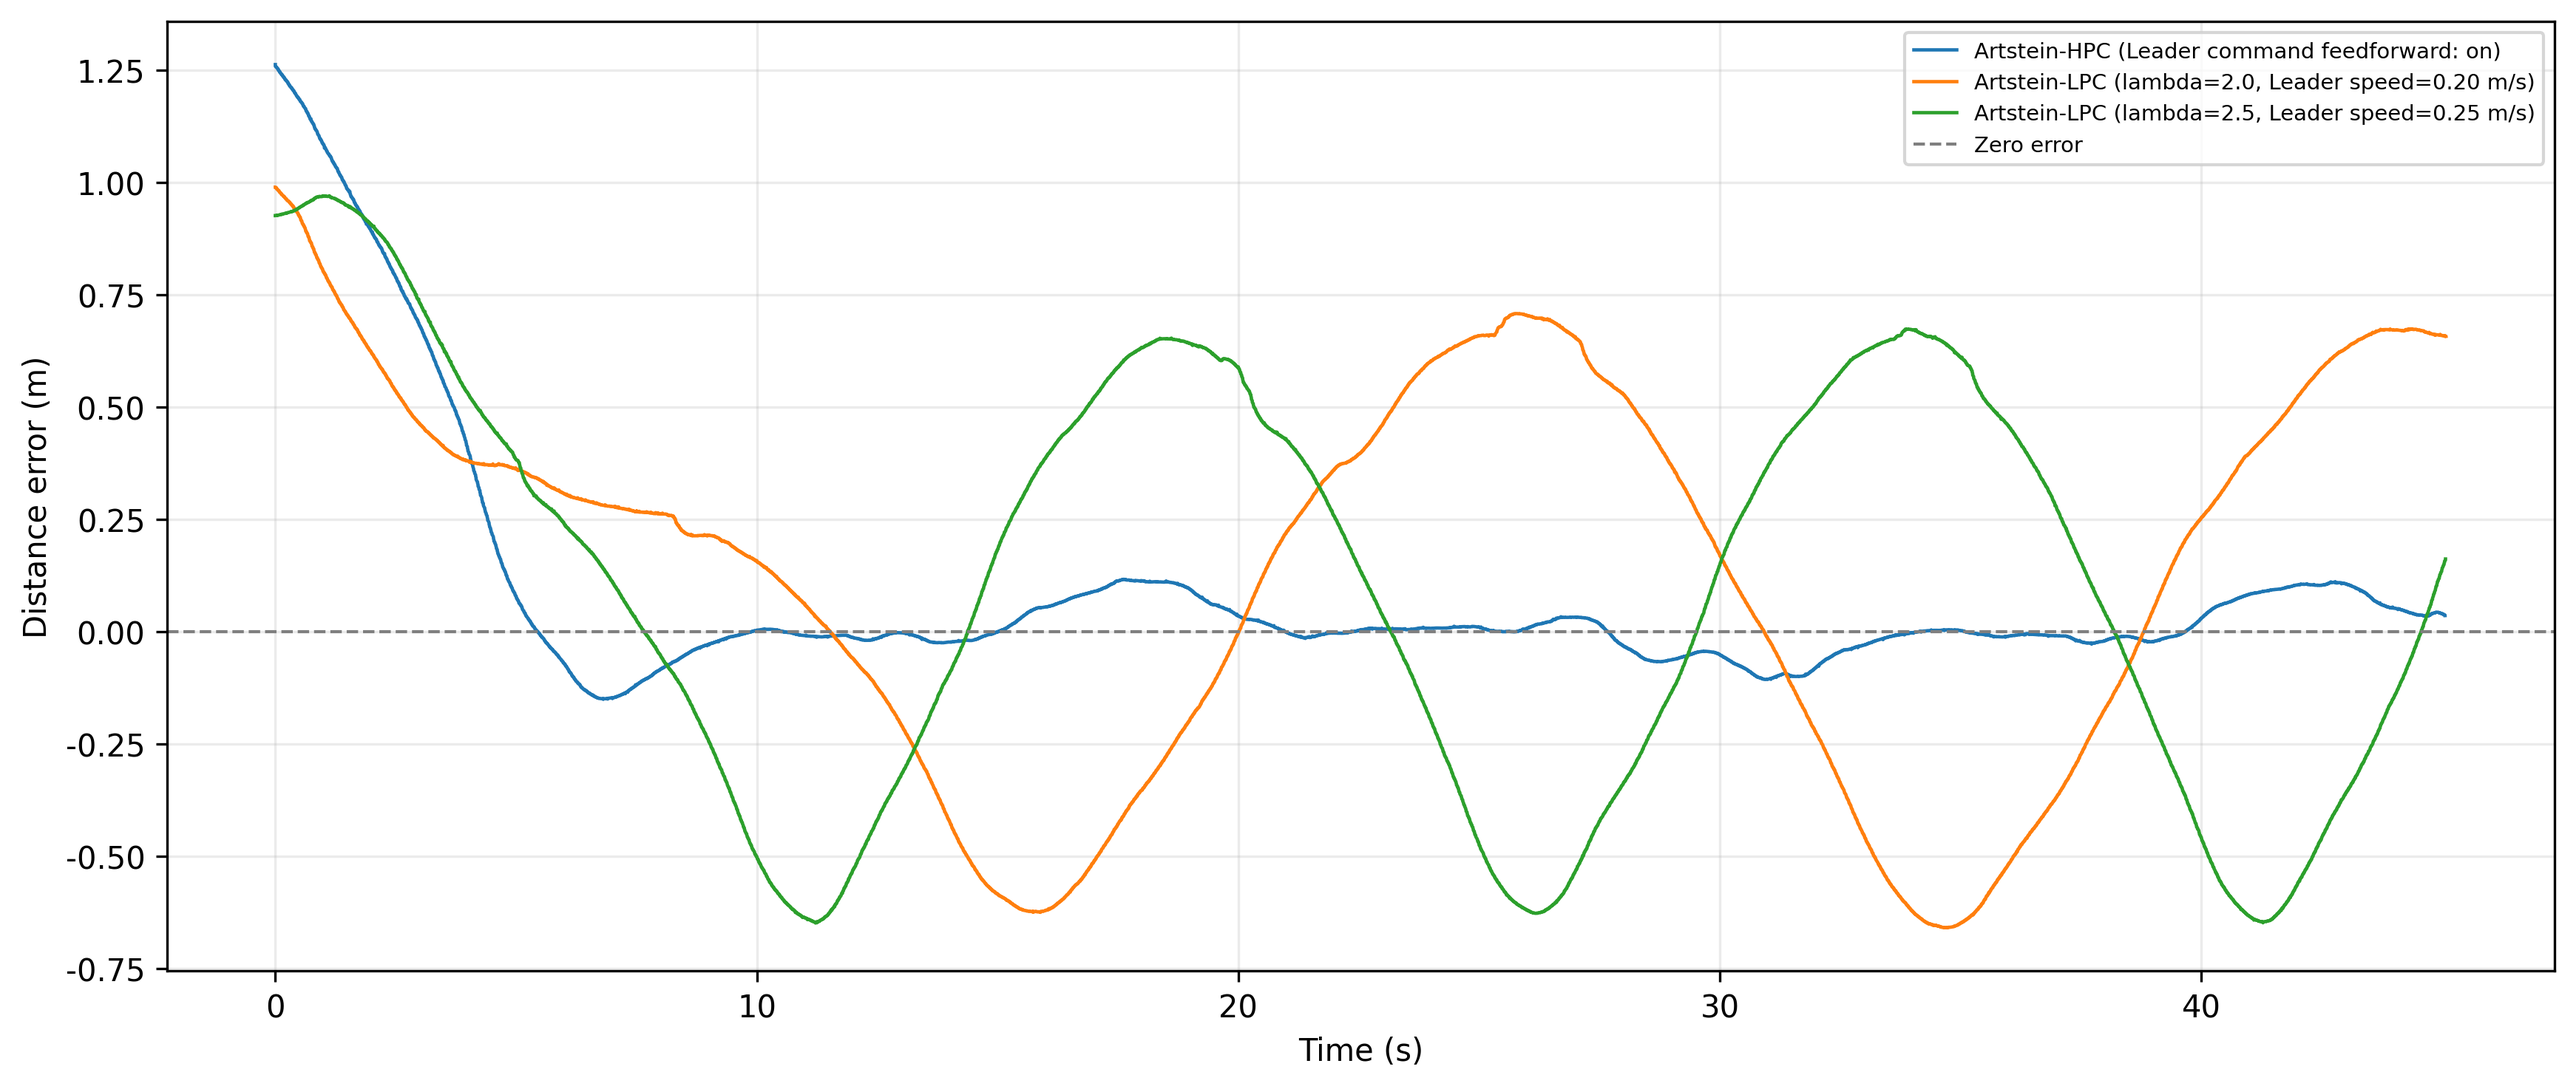
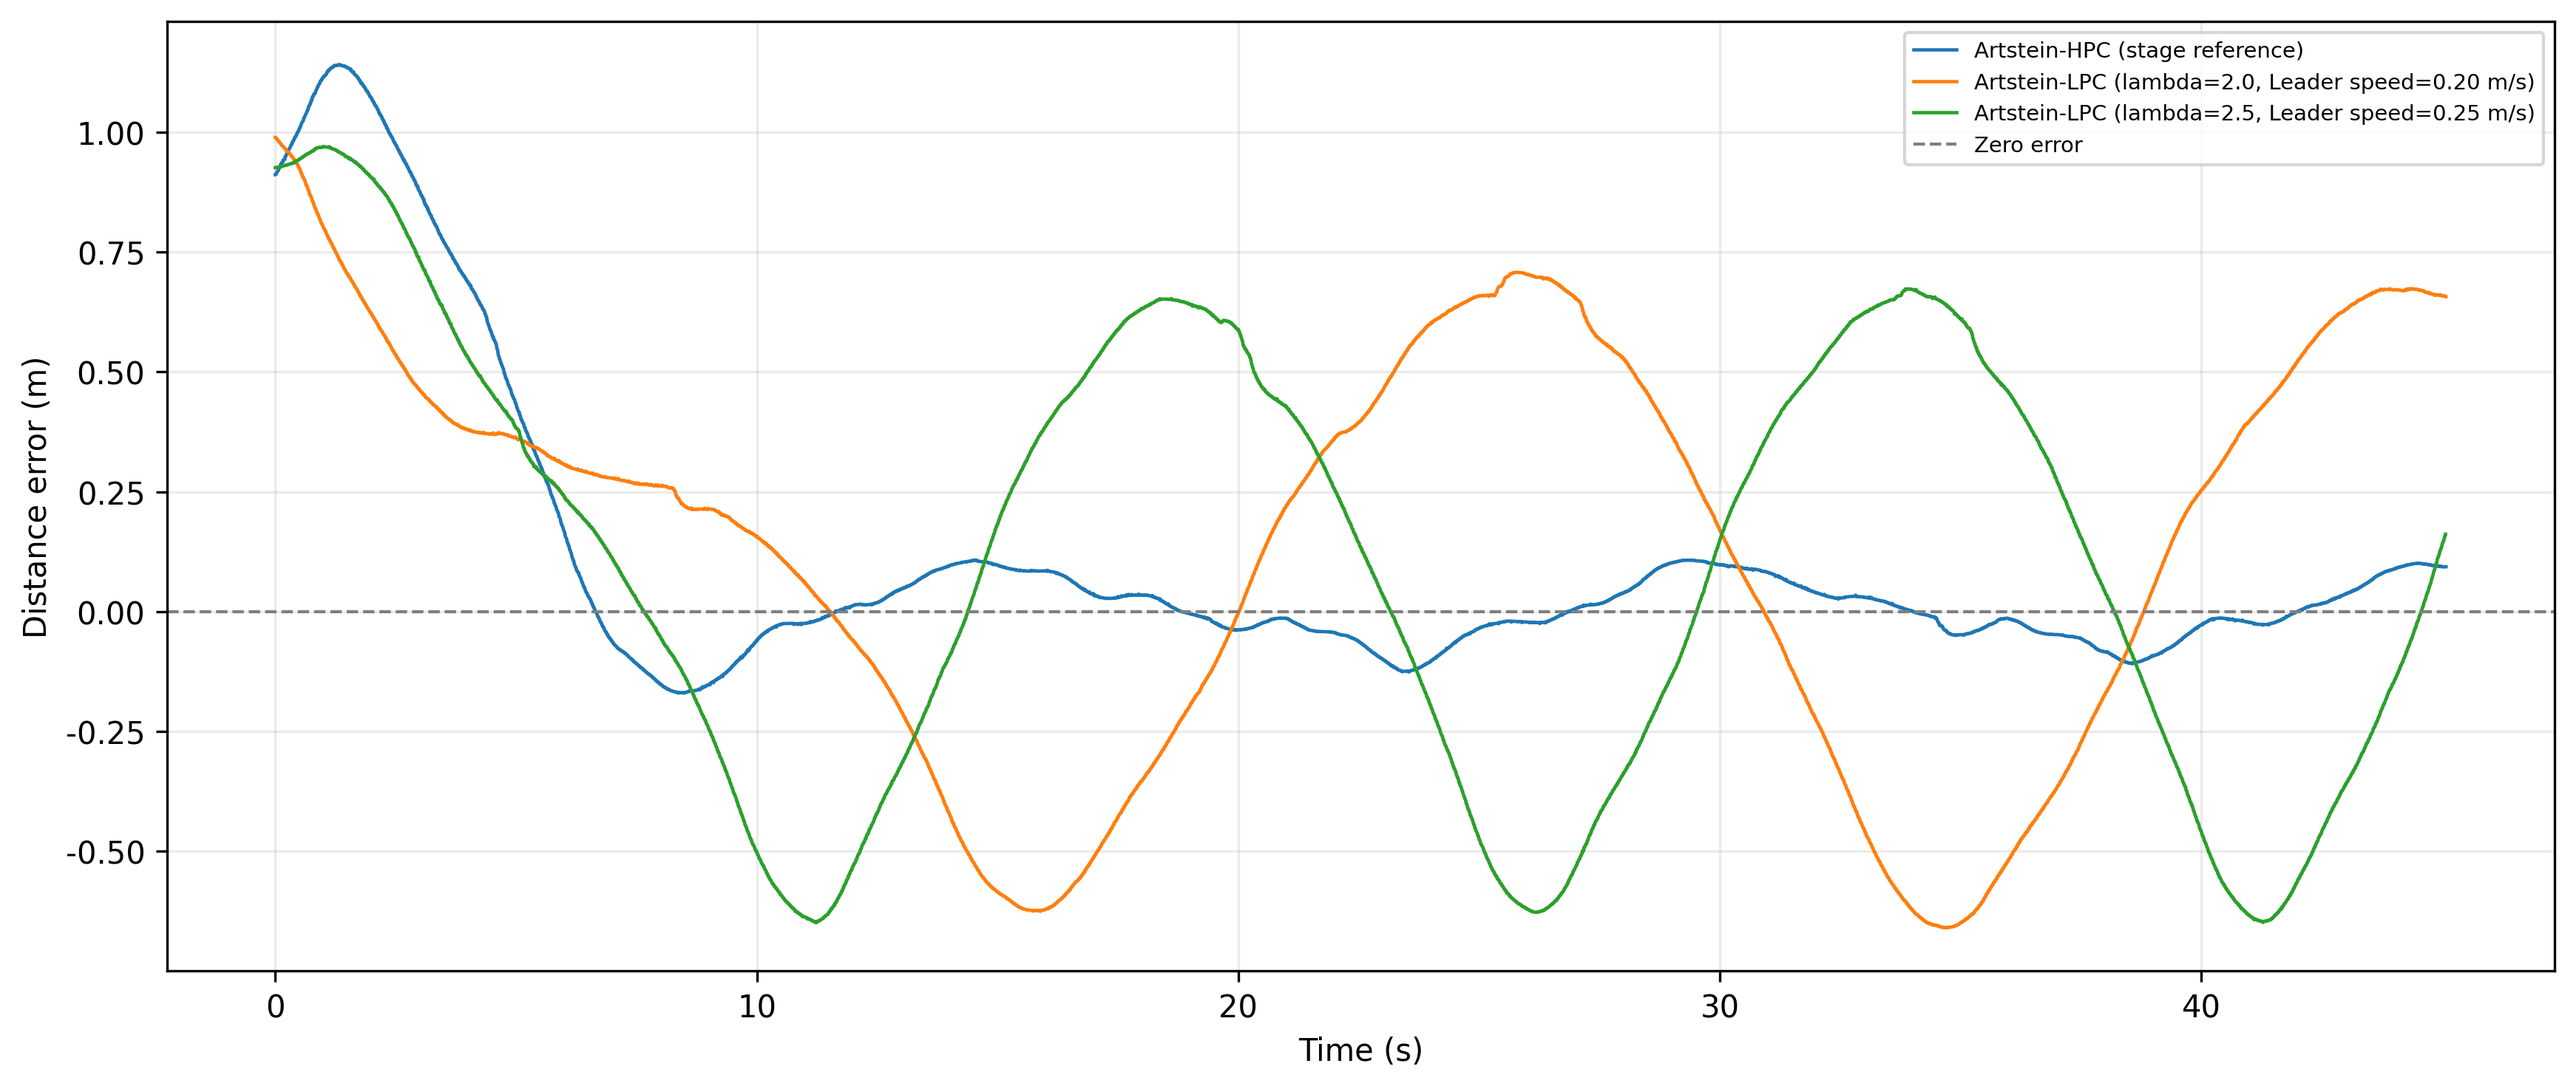
替换实验二HPC参考组数据

diff --git a/homo_multirobot_formation_control/scripts/analyze_real_tracking_report.py b/homo_multirobot_formation_control/scripts/analyze_real_tracking_report.py
@@ -71,8 +71,15 @@ def report_label(experiment, chinese_labels):
     if experiment["controller_family"] == "artstein_lpc":
         return ("Artstein-LPC (lambda={:.1f}, Leader speed={:.2f} m/s)".format(
             experiment["initial_min_lambda"], experiment["leader_speed_mps"]))
+    if experiment["id"] == "hpc_lpc_reference":
+        return "Artstein-HPC (stage reference)"
     state = "on" if experiment.get("leader_command_feedforward") else "off"
     return f"Artstein-HPC (Leader command feedforward: {state})"
+
+
+def stage_experiment_ids():
+    """Return the dedicated records used for the HPC/LPC stage comparison."""
+    return ("hpc_lpc_reference", "lpc_lambda_20_v020", "lpc_lambda_25_v025")
 
 
 def compute_distance_metrics(distances, ideal_radius_m):
@@ -304,15 +311,13 @@ def generate_report_assets(manifest_path, assets_dir):
     chinese_labels, plt = configure_report_plotting()
     series_by_id = {experiment["id"]: (experiment, rows)
                     for experiment, rows in load_report_series(manifest_path)}
-    required_ids = ("hpc_feedforward_on", "hpc_feedforward_off",
-                    "lpc_lambda_20_v020", "lpc_lambda_25_v025")
+    required_ids = ("hpc_feedforward_on", "hpc_feedforward_off", *stage_experiment_ids())
     missing = [experiment_id for experiment_id in required_ids if experiment_id not in series_by_id]
     if missing:
         raise ValueError("manifest missing required report experiments: " + ", ".join(missing))
     assets_dir.mkdir(parents=True, exist_ok=True)
     ff_series = [series_by_id[experiment_id] for experiment_id in required_ids[:2]]
-    stage_series = [series_by_id[experiment_id] for experiment_id in
-                    ("hpc_feedforward_on", "lpc_lambda_20_v020", "lpc_lambda_25_v025")]
+    stage_series = [series_by_id[experiment_id] for experiment_id in stage_experiment_ids()]
 
     figure, axes = plt.subplots(1, 2, figsize=(13.4, 6.1), constrained_layout=True)
     for axis, (experiment, rows) in zip(axes, ff_series):

diff --git a/homo_multirobot_formation_control/test/test_analyze_real_tracking_report.py b/homo_multirobot_formation_control/test/test_analyze_real_tracking_report.py
@@ -38,6 +38,11 @@ def test_tail_metrics_describe_the_last_ten_seconds_of_a_recording():
     assert metrics['tail_distance_error_std_m'] == pytest.approx(0.0816496580927726)
 
 
+def test_hpc_lpc_stage_uses_the_dedicated_hpc_reference_record():
+    assert module.stage_experiment_ids() == (
+        'hpc_lpc_reference', 'lpc_lambda_20_v020', 'lpc_lambda_25_v025')
+
+
 def test_generate_report_assets_writes_the_five_high_resolution_pngs(tmp_path, capsys):
     manifest = (PACKAGE_DIR / "analysis" / "real_tracking_report" /
                 "experiment_manifest.yaml")

diff --git a/docs/reports/2026-09-15-real-robot-tracking/data_provenance.md b/docs/reports/2026-09-15-real-robot-tracking/data_provenance.md
@@ -6,10 +6,11 @@
 
 | 来源代号 | 实验标签 | 用途 |
 | --- | --- | --- |
-| A | Artstein-HPC（Leader 命令前馈：开） | 前馈开/关对比、HPC/LPC 阶段性图表的 HPC 代表组 |
+| A | Artstein-HPC（Leader 命令前馈：开） | 前馈开/关对比 |
 | B | Artstein-HPC（Leader 命令前馈：关） | 前馈开/关对比 |
 | C | Artstein-LPC（λ初值=2.0，Leader 速度=0.20 m/s） | HPC/LPC 阶段性图表 |
 | D | Artstein-LPC（λ初值=2.5，Leader 速度=0.25 m/s） | HPC/LPC 阶段性图表及最新可运行结果 |
+| E | Artstein-HPC（实验二参考组） | HPC/LPC 阶段性图表的 HPC 参考组 |
 
 ## 原始记录定位
 
@@ -19,6 +20,7 @@
 | B | `robot_traj/real/4d_artstein_no_forward_8traj_20260914_204546` | `trial_01` | `use_hpc=true`、`enable_leader_cmd_feedforward=false` |
 | C | `robot_traj/real/4d_artstein_lpc_20260915_104805` | `trial_01` | `use_hpc=false`、`initial_min_lambda=2.0`、Leader 速度 0.20 m/s |
 | D | `robot_traj/real/4d_artstein_lpc_20260915_105440` | `trial_02` | `use_hpc=false`、`initial_min_lambda=2.5`、Leader 速度 0.25 m/s |
+| E | `robot_traj/real/4d_artstein_20260909_173424` | `trial_03` | 用户指定为 Artstein-HPC 实验二参考组；动捕实物记录 |
 
 实验配置以各目录的 `metadata.yaml` 为依据，轨迹与误差计算以 `raw.csv` 为依据。报告中的距离评价基准统一为控制器 `radius=1.0 m`。
 
@@ -28,4 +30,4 @@
 | --- | --- |
 | 图 1：实物跟踪控制与数据流 | 控制器实现与参数配置 |
 | 图 2、图 3：Leader 命令速度前馈开/关对比 | A、B |
-| 图 4、图 5：Artstein-HPC 与 Artstein-LPC 阶段性结果 | A、C、D |
+| 图 4、图 5：Artstein-HPC 与 Artstein-LPC 阶段性结果 | E、C、D |
